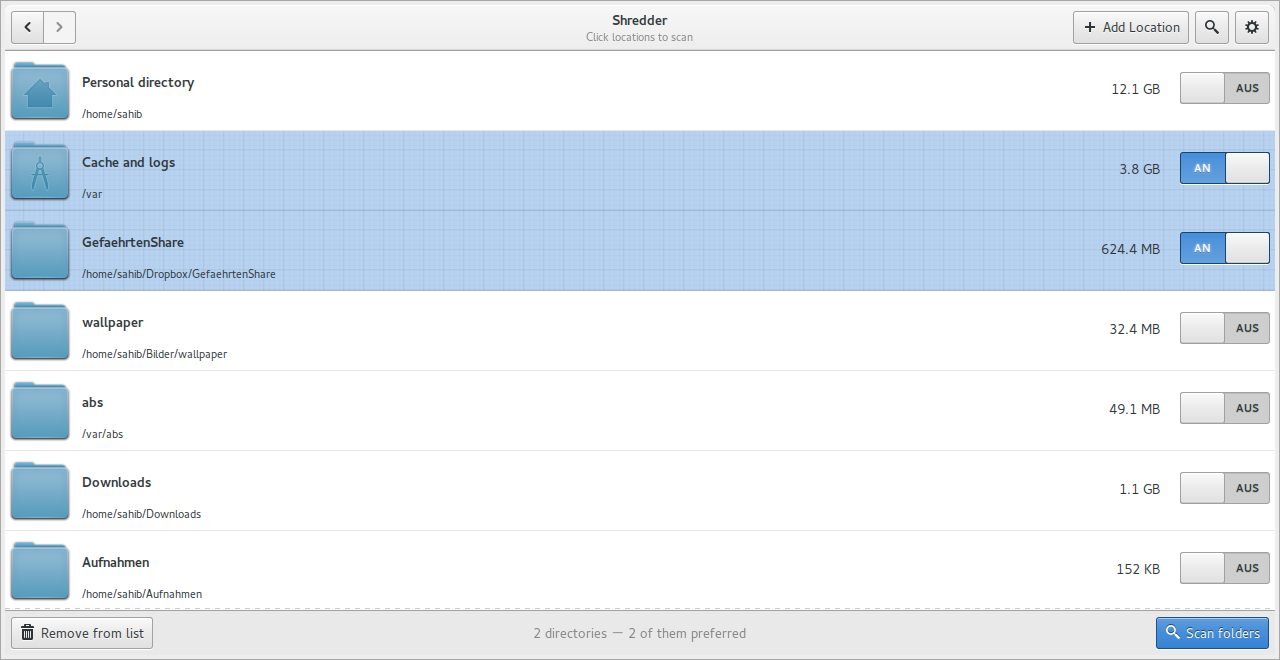
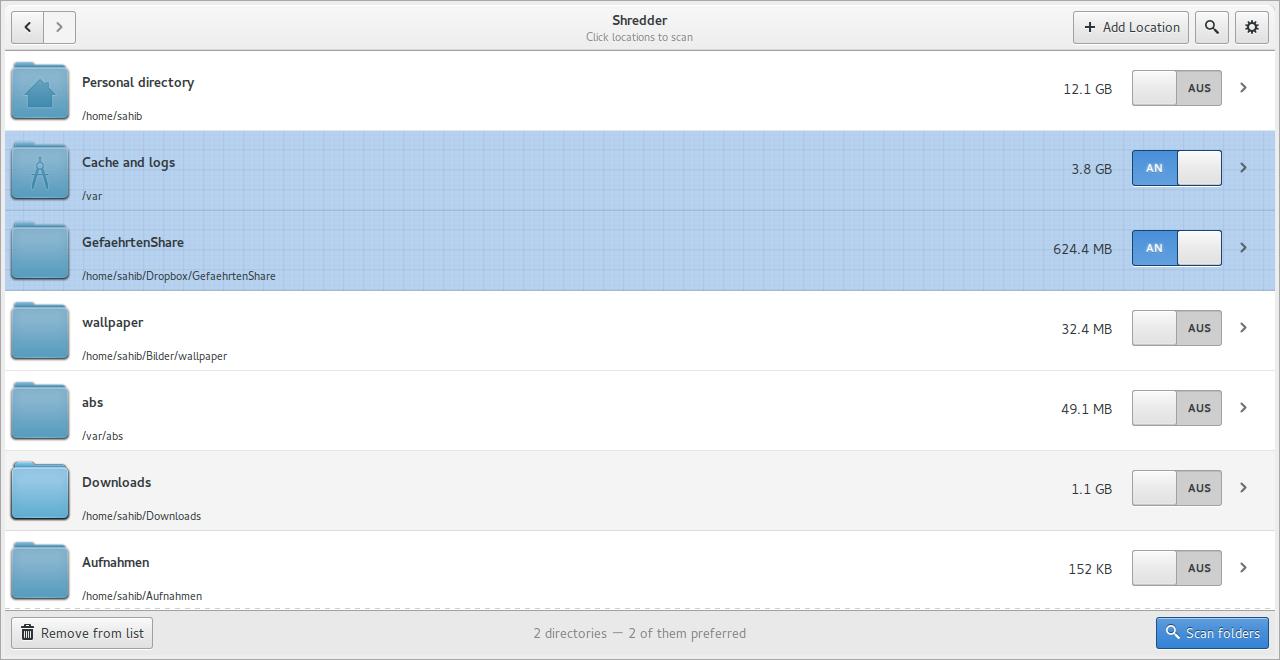
gui: implement shortcut buttons in locations view

diff --git a/gui/shredder/views/locations.py b/gui/shredder/views/locations.py
@@ -64,6 +64,10 @@ class LocationEntry(Gtk.ListBoxRow):
     """A single entry representing an existing file system location."""
     preferred = GObject.Property(type=bool, default=False)
 
+    __gsignals__ = {
+        'shortcut': (GObject.SIGNAL_RUN_FIRST, None, ())
+    }
+
     def __init__(self, name, path, themed_icon, fill_level=None):
         Gtk.ListBoxRow.__init__(self)
         self.set_size_request(-1, 80)
@@ -118,11 +122,25 @@ class LocationEntry(Gtk.ListBoxRow):
         grid = Gtk.Grid()
         self.add(grid)
 
+        # Quick-select button with arrow inside:
+        shortcut_btn = Gtk.Button()
+        shortcut_btn.add(Gtk.Arrow(Gtk.ArrowType.RIGHT, Gtk.ShadowType.NONE))
+        shortcut_btn.set_relief(Gtk.ReliefStyle.NONE)
+        shortcut_btn.set_vexpand(False)
+        shortcut_btn.set_valign(Gtk.Align.START)
+        shortcut_btn.set_margin_top(17)
+        shortcut_btn.set_margin_end(15)
+        shortcut_btn.set_opacity(0.7)
+        shortcut_btn.set_can_focus(False)
+        shortcut_btn.set_size_request(-1, 28)
+        shortcut_btn.connect('clicked', lambda *_: self.emit('shortcut'))
+
         grid.attach(icon_img, 0, 0, 5, 5)
         grid.attach(name_label, 5, 2, 1, 1)
         grid.attach(path_label, 5, 3, 1, 1)
         grid.attach(self.check_box, 7, 2, 1, 1)
-        grid.attach(self.separator, 0, 8, 8, 1)
+        grid.attach(shortcut_btn, 8, 2, 1, 1)
+        grid.attach(self.separator, 0, 8, 9, 1)
 
         if fill_level is not None:
             level_bar = Gtk.LevelBar()
@@ -350,6 +368,9 @@ class LocationView(View):
             'notify::preferred',
             lambda *_: self._update_selected_label()
         )
+        entry.connect(
+            'shortcut', self._shortcut_clicked
+        )
         return entry
 
     def on_row_clicked(self, _, row):
@@ -470,8 +491,6 @@ class LocationView(View):
 
     def _run_clicked(self, _):
         """Switch one view further to the runner view."""
-        main_view = self.app_window.views['runner']
-
         tagged, untagged = [], []
         for row in self.selected_locations:
             if row.props.preferred:
@@ -479,6 +498,16 @@ class LocationView(View):
             else:
                 untagged.append(row.path)
 
+        self.scan_paths(untagged, tagged)
+
+    def _shortcut_clicked(self, row):
+        """User clicked on one of the row side arrows."""
+        # It's only one path. Do not worry about tagged/untagged.
+        self.scan_paths([row.path], [])
+
+    def scan_paths(self, untagged, tagged):
+        """Actually go to the main view and trigger scan."""
+        main_view = self.app_window.views['runner']
         if tagged or untagged:
             main_view.trigger_run(untagged, tagged)
             self.app_window.views.switch('runner')
